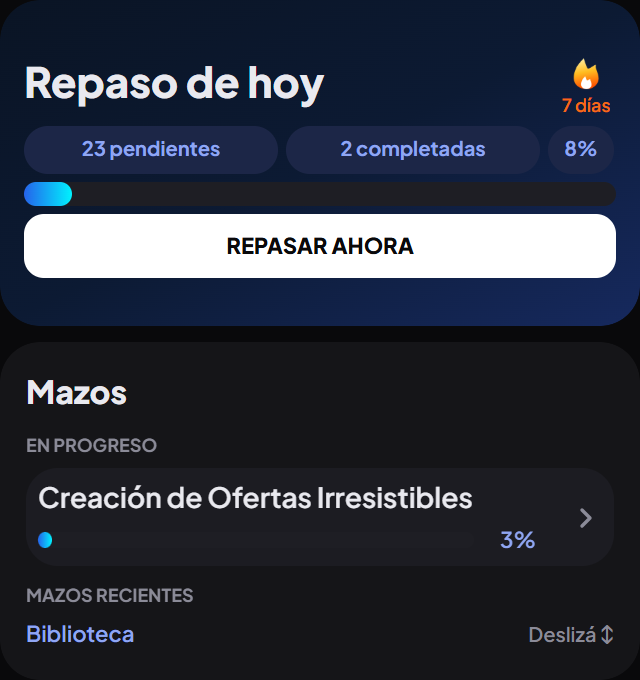
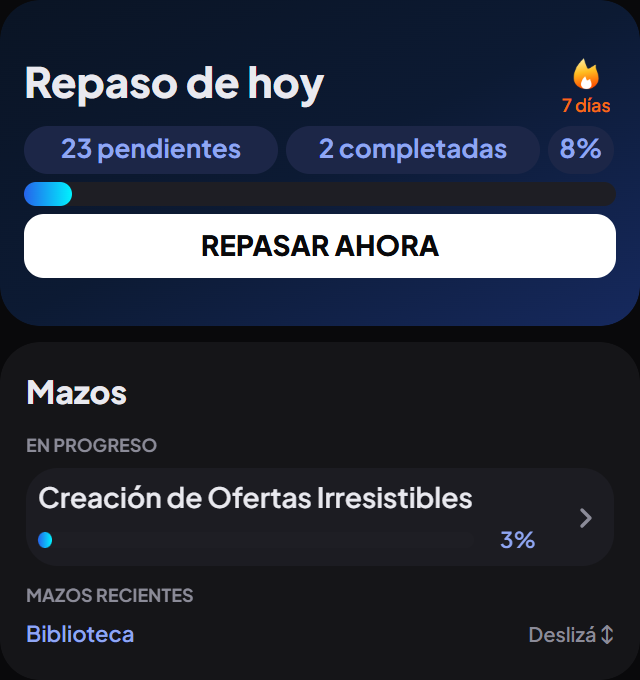
Mantener indicadores legibles y recientes visibles al ampliar widgets

diff --git a/src/widgets/layout.js b/src/widgets/layout.js
@@ -16,11 +16,11 @@ export function reviewLayout(info) {
   const flameSize = tight ? 22 : medium ? 28 : Math.round(clamp(l.width * 0.1, 26, 42));
   const captionHeight = tight ? 12 : medium ? 14 : 16;
   const headerHeight = Math.max(titleSize * 1.25, flameSize + captionHeight);
-  const statSize = tight || l.width < 240 ? 10 : Math.round(clamp(l.width * 0.04, 11, 16));
+  const statSize = l.width < 240 ? 10 : Math.round(clamp(l.width * 0.04, 11, tight ? 15 : 16));
   const statHeight = tight ? 24 : medium ? 28 : Math.round(clamp(l.height * 0.12, 28, 40));
   const barHeight = tight ? 12 : medium ? 16 : Math.round(clamp(l.width * 0.055, 16, 24));
   const buttonHeight = tight ? 32 : medium ? 40 : Math.round(clamp(l.height * 0.2, 42, 60));
-  const buttonSize = tight || l.width < 240 ? 11 : Math.round(clamp(l.width * 0.045, 13, 18));
+  const buttonSize = l.width < 240 ? 11 : Math.round(clamp(l.width * 0.045, 13, 18));
   const groupHeight = headerHeight + statHeight + barHeight + buttonHeight + gap * 3;
   const inset = Math.max(0, (l.height - l.padding * 2 - groupHeight) / 2);
   return { ...l, gap, titleSize, flameSize, captionHeight, headerHeight,
@@ -35,7 +35,7 @@ export function decksLayout(info) {
   const footerHeight = 20;
   const gap = l.compact ? 4 : 8;
   const bodyHeight = l.height - l.padding * 2 - headerHeight - footerHeight - gap * 2;
-  const lines = bodyHeight >= 120 && l.width >= 240 ? 2 : 1;
+  const lines = bodyHeight >= 140 && l.width >= 240 && l.width < 340 ? 2 : 1;
   const nameSize = l.compact ? 14 : Math.round(clamp(l.width * 0.045, 16, 20));
   const nameHeight = Math.ceil(nameSize * 1.25) * lines;
   const detailSize = l.compact ? 11 : 13;

diff --git a/src/widgets/__tests__/layout.test.js b/src/widgets/__tests__/layout.test.js
@@ -24,6 +24,8 @@ test('el viewport de mazos crece y cada elemento cabe en el mínimo', () => {
     }
   }
   expect(decksLayout({ width: 401, height: 340 }).bodyHeight).toBeGreaterThan(decksLayout({ width: 401, height: 218 }).bodyHeight);
+  const expanded = decksLayout({ width: 401, height: 340 });
+  expect(expanded.sectionHeight * 2 + expanded.rowHeight * 2).toBeLessThanOrEqual(expanded.bodyHeight);
 });
 
 test('el combinado reserva dos paneles utilizables desde su mínimo nativo', () => {
